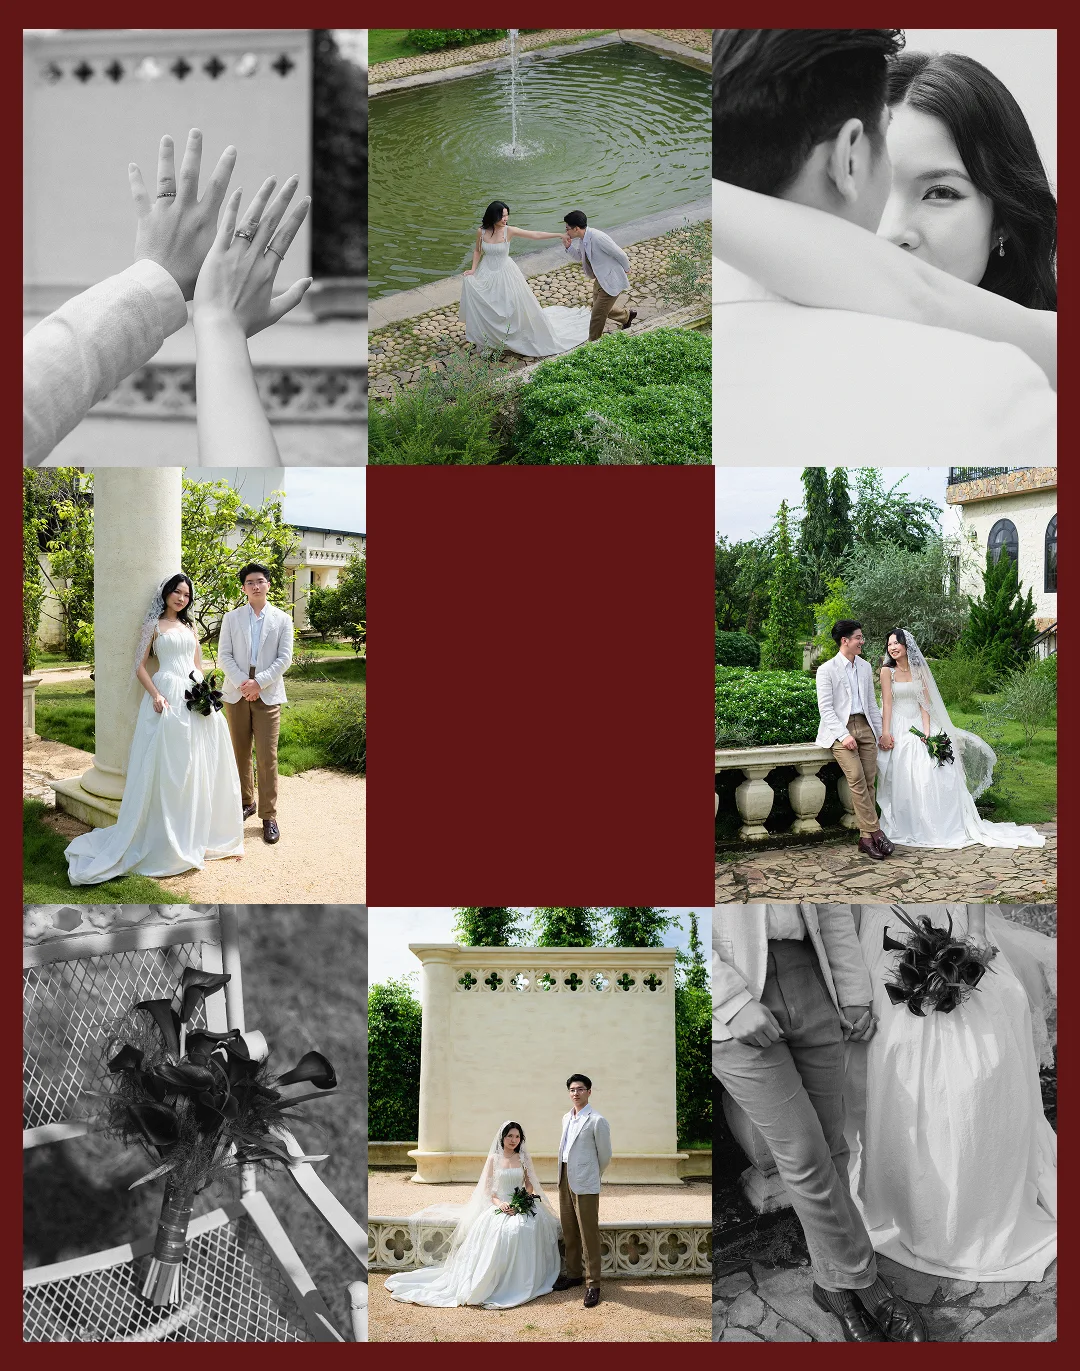
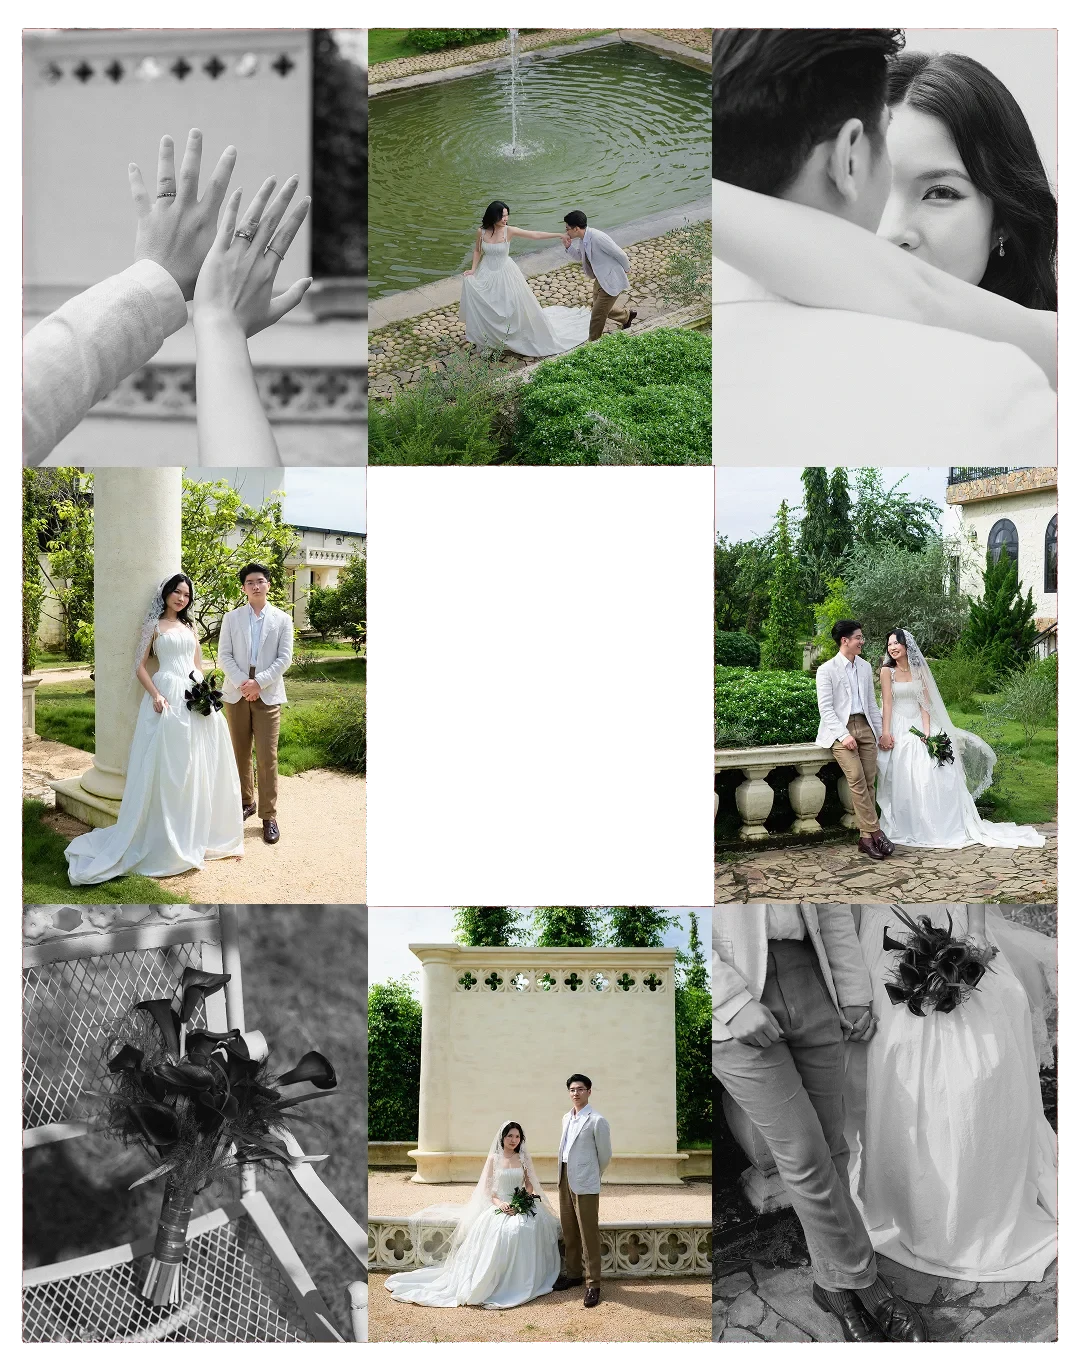
okk

Changed region(s): [[0.0, 0.0, 1.0, 1.0], [0.3361, 0.337, 0.6722, 0.674]]

diff --git a/content/client.ts b/content/client.ts
@@ -147,6 +147,8 @@ export const design: Record<SectionId, SectionDesign> = {
   rsvp: {
     anchor: "rsvp",
     tone: "dark",
+    background: "damask-wine",
+    overlay: 0,
     decor: [{ name: "bouquet-right", at: "-top-[3%] -right-[6%] w-[30%]" }],
   },
   thankYou: { anchor: "thank-you", tone: "dark" },
@@ -415,6 +417,8 @@ export const thankYou = {
   ],
   /** Trang 2: lưới 3×3 ảnh, ô giữa là lời cảm ơn. */
   grid: "/images/thankyou-grid.webp",
+  /** Nền lụa hiện qua viền và ô giữa (đã khoét trong suốt) của lưới */
+  gridBackground: "/back.png",
   gridAlt: "Tám khoảnh khắc trong bộ ảnh cưới của Quang Đức và Thanh Trúc",
   /** Ô giữa: một chữ hoa mỹ (Latin, không dấu) và một dòng chữ hoa. */
   /** Tiêu đề hoa mỹ ở ô giữa lưới ảnh, mỗi phần tử một dòng. */

diff --git a/components/sections/ThankYou.tsx b/components/sections/ThankYou.tsx
@@ -71,6 +71,8 @@ export function ThankYouGrid() {
   return (
     <SectionWrapper section="thankYouGrid" flush width="bleed" labelledBy="thank-you-grid-title">
       <Stage width={1080} height={1371}>
+        {/* Viền và ô giữa của lưới đã khoét trong suốt: nền lụa đỏ hiện qua */}
+        <Image src={thankYou.gridBackground} alt="" fill unoptimized className="object-cover" />
         <Image
           src={thankYou.grid}
           alt={thankYou.gridAlt}
